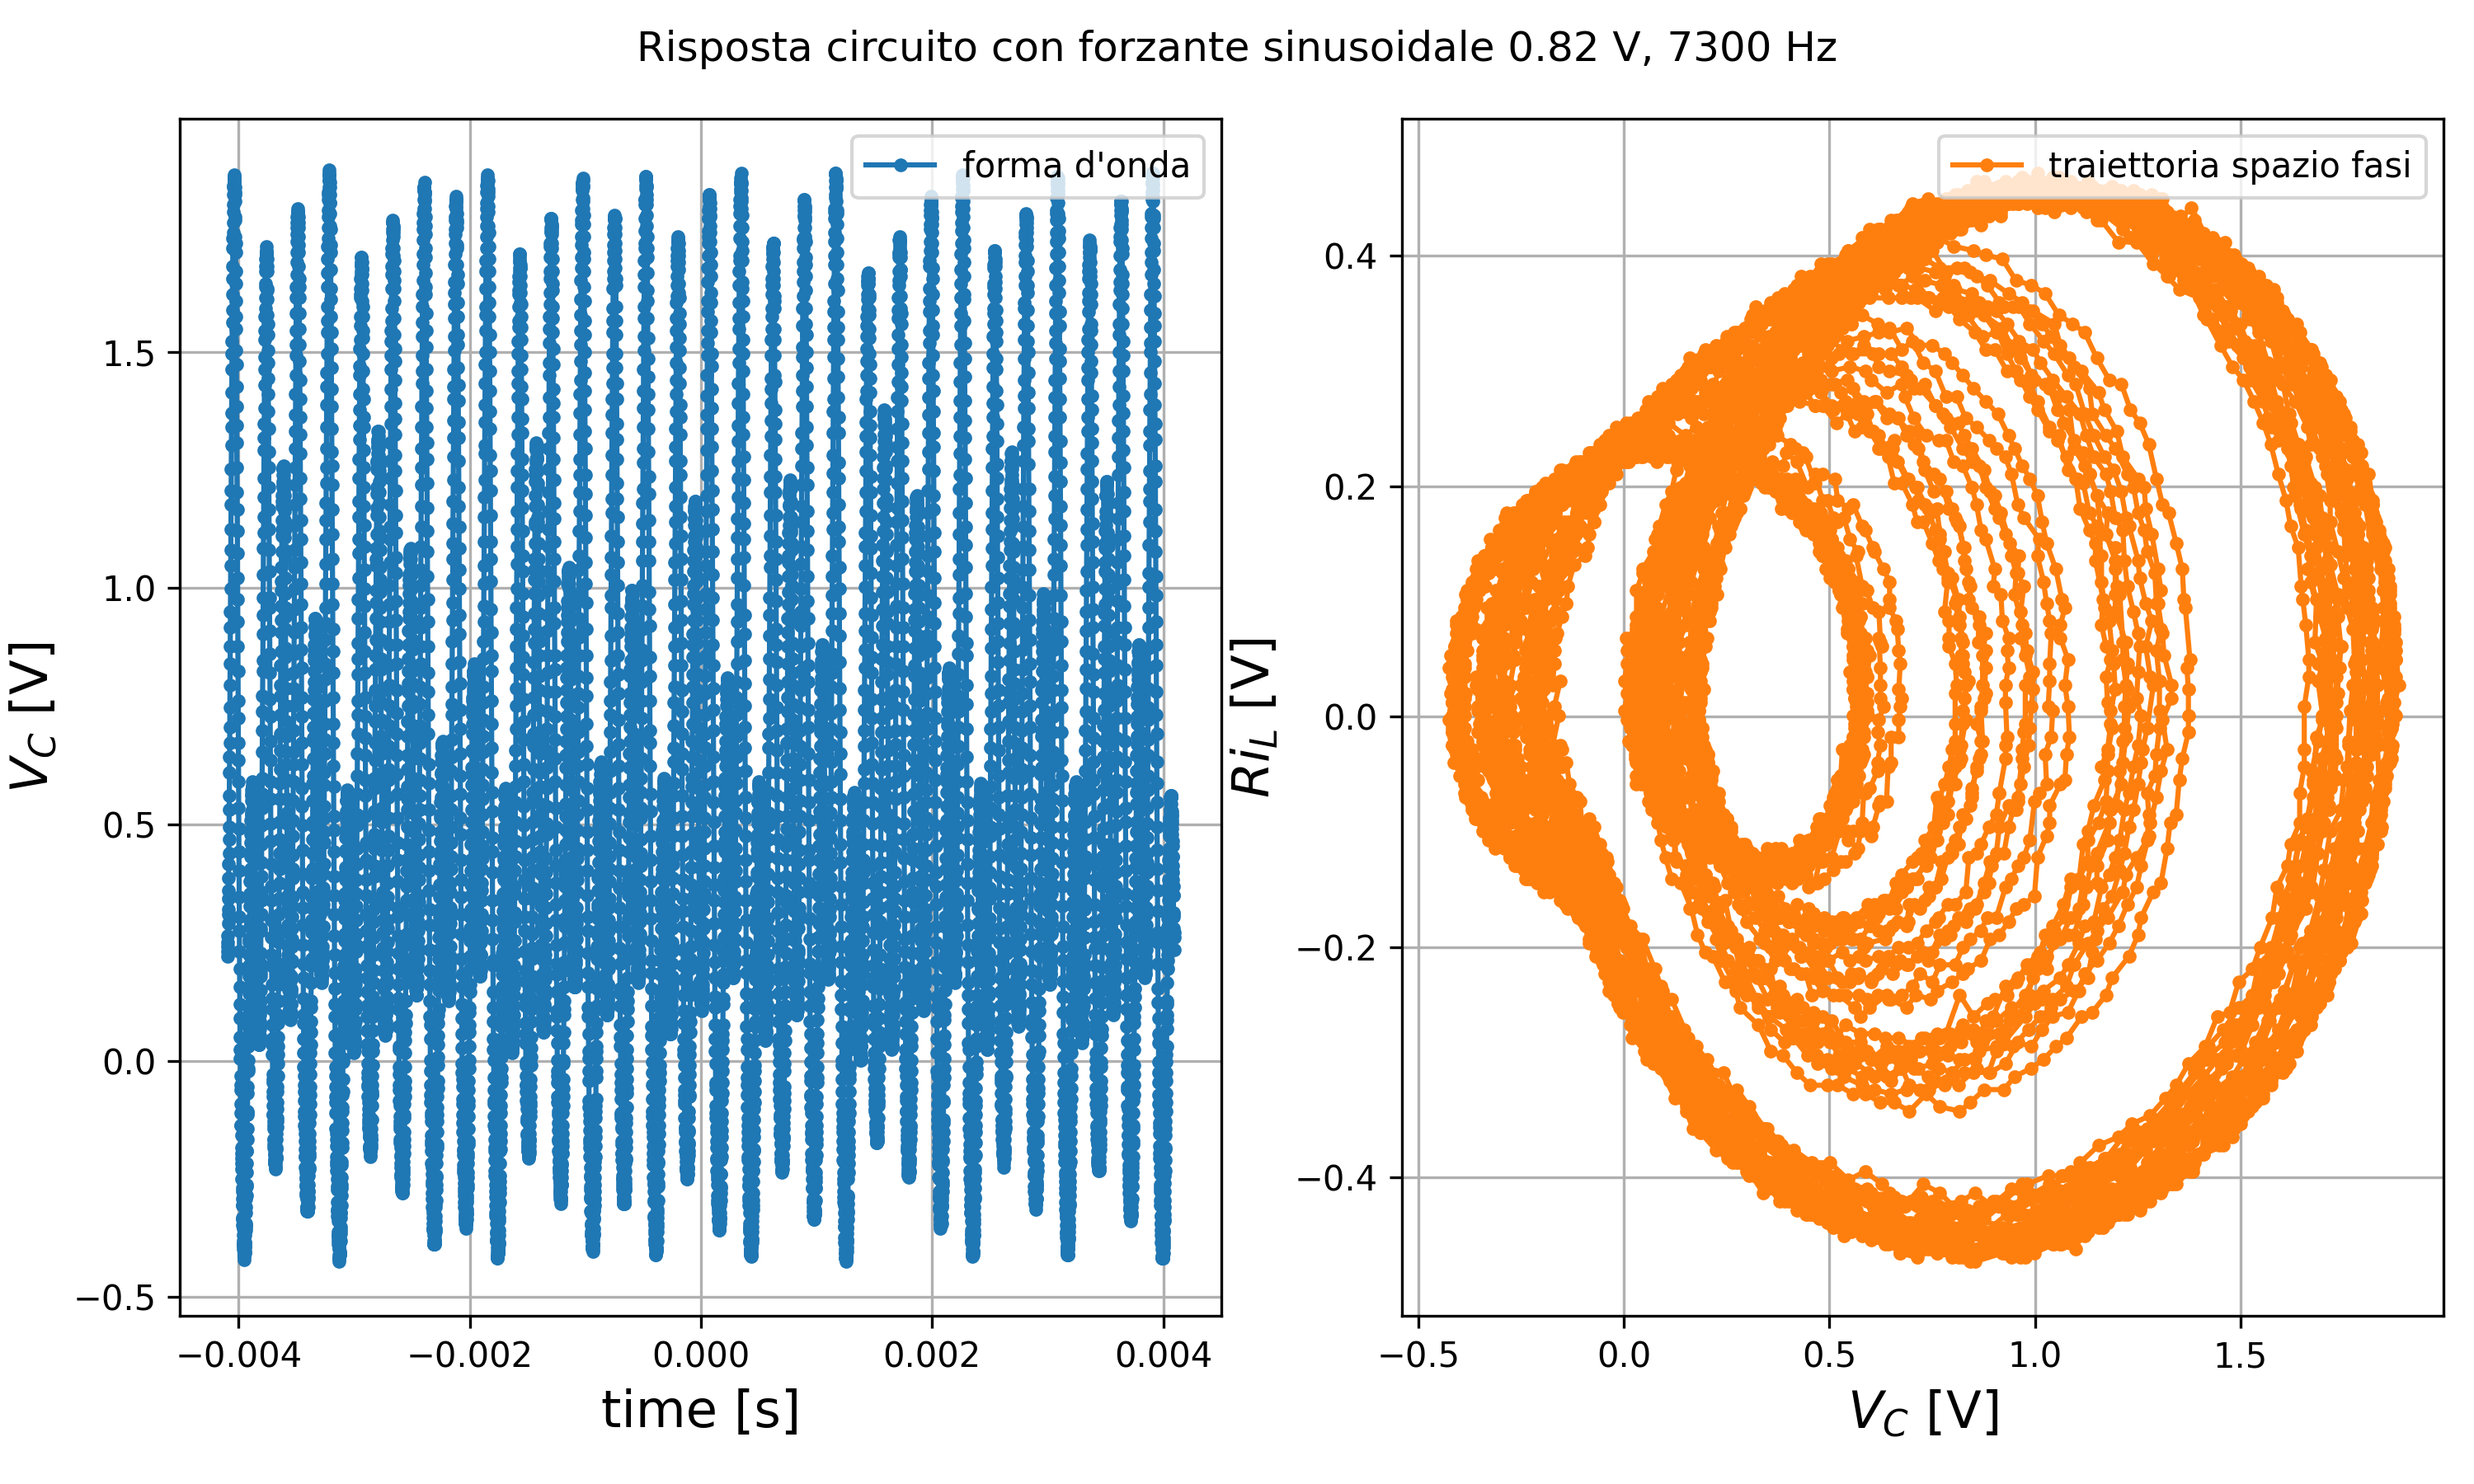
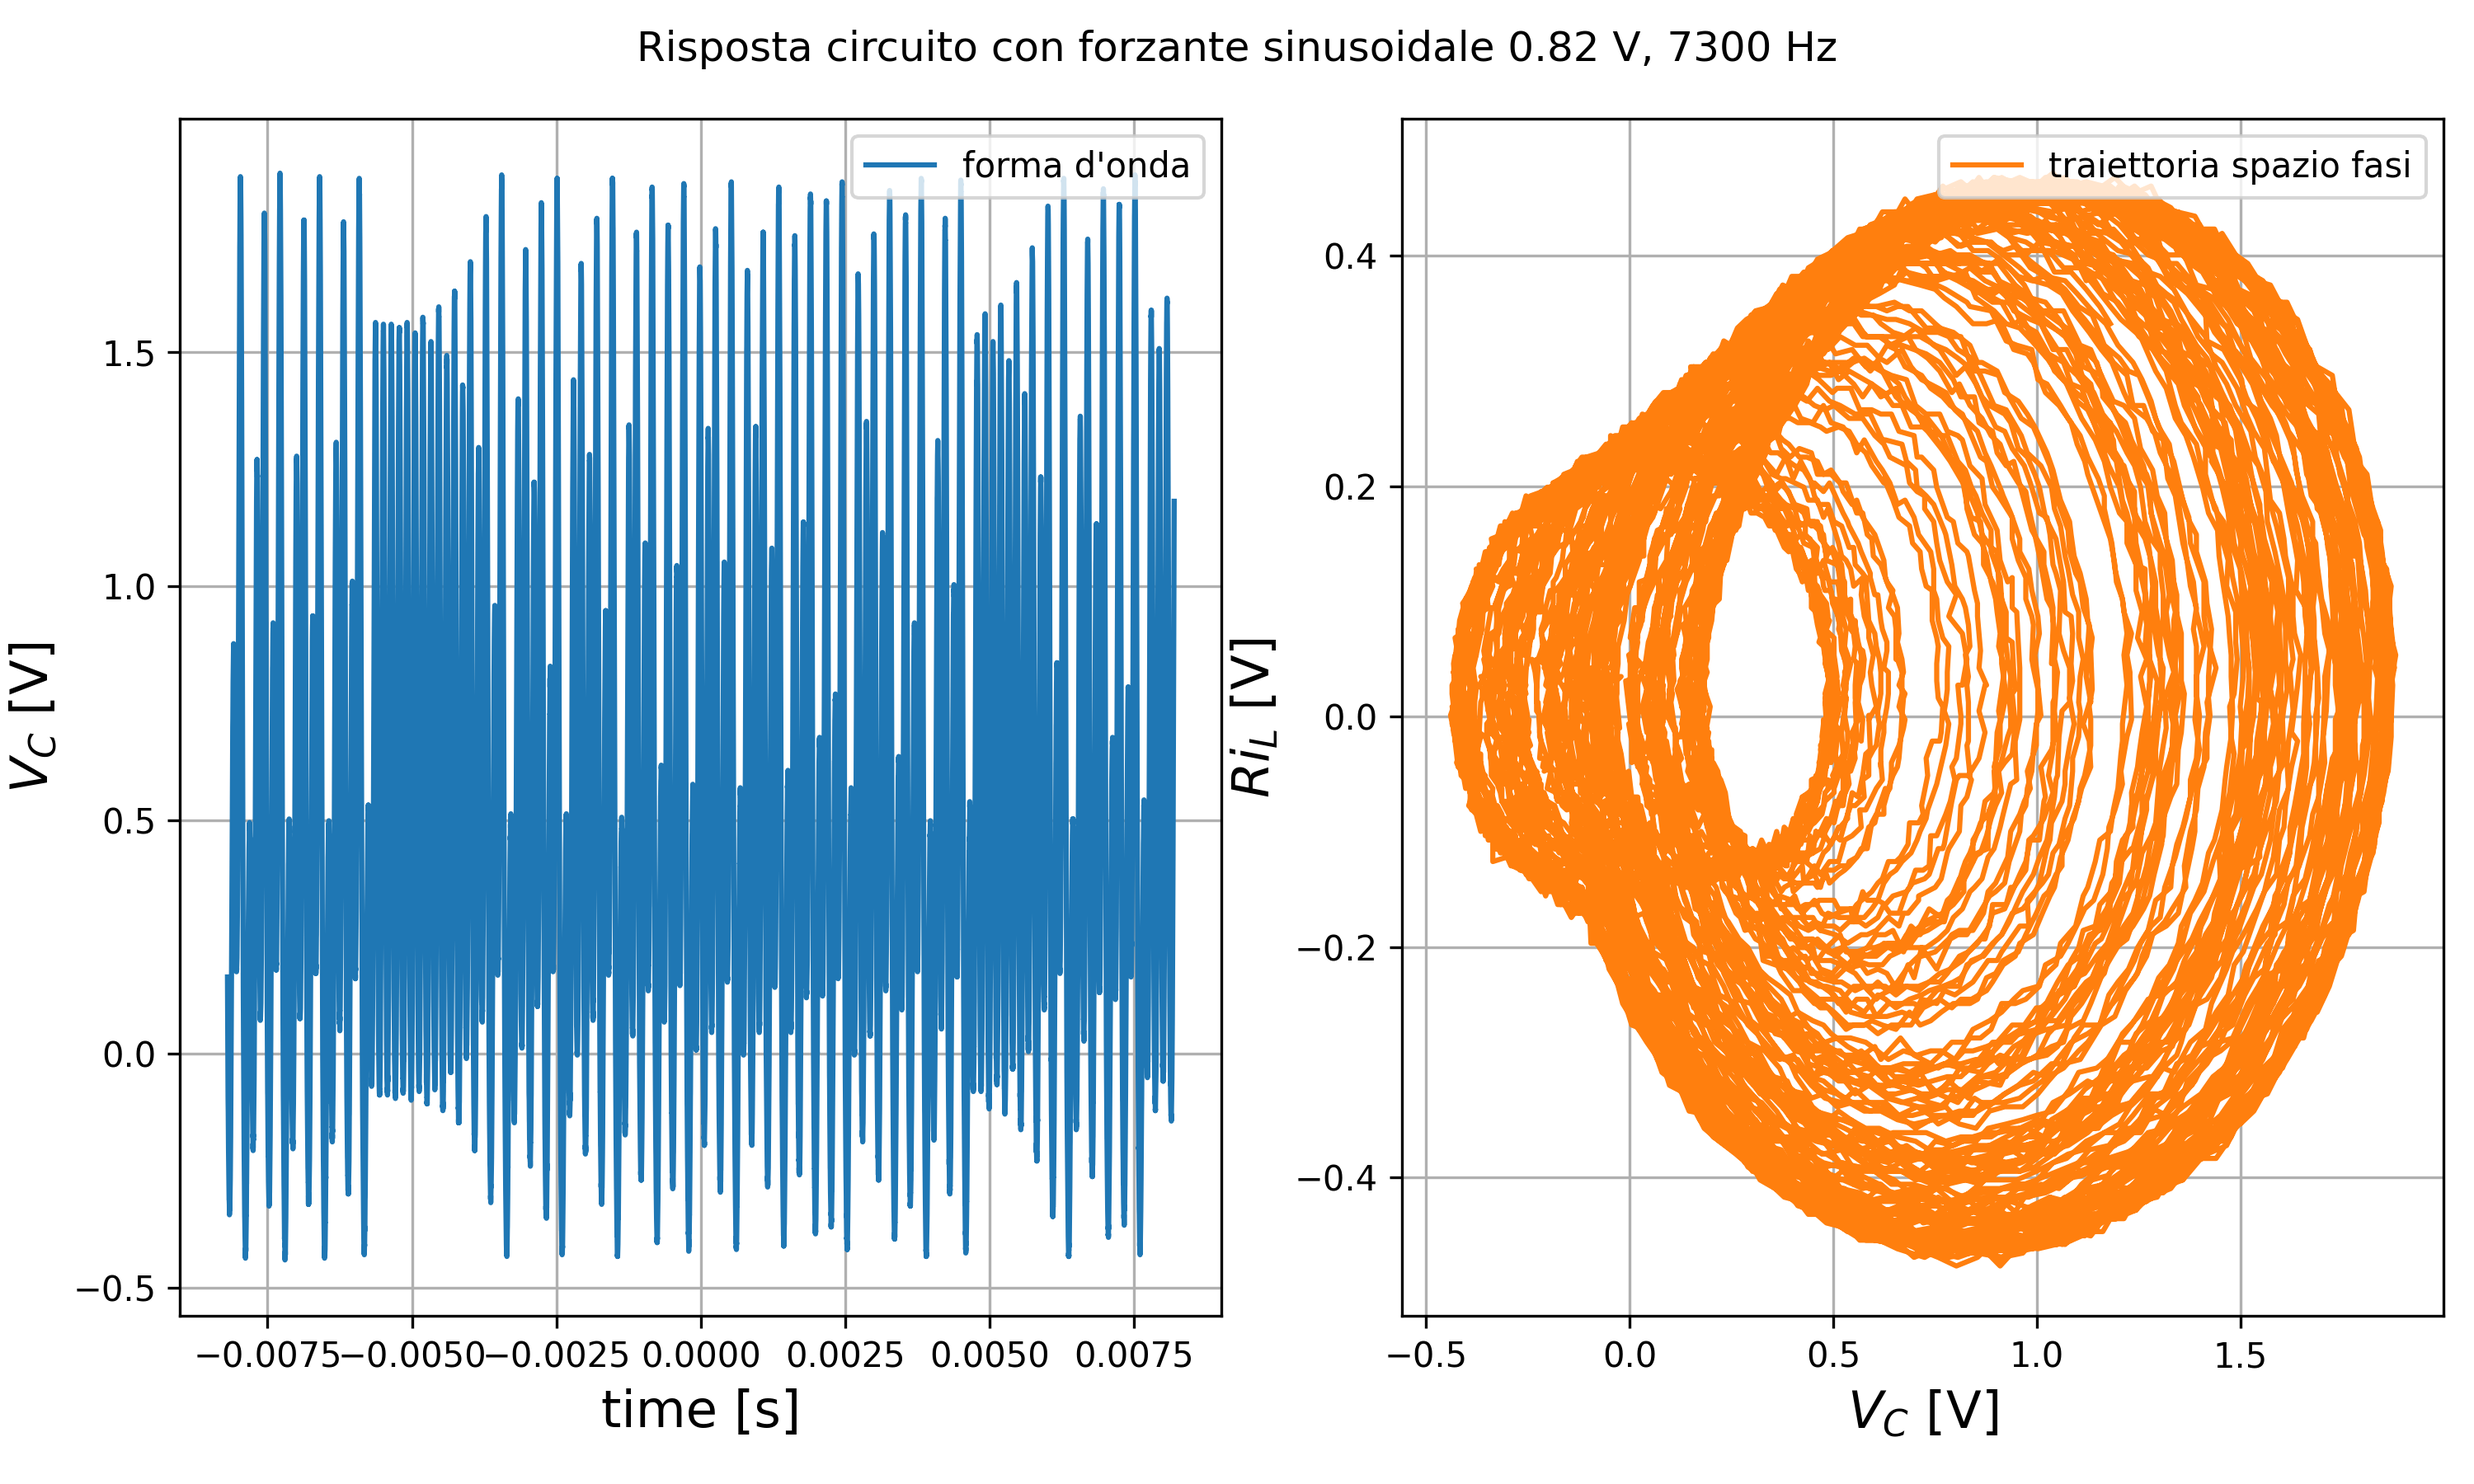
task5 ultimato

diff --git a/Es_11/task5_esplorazione_regimi_caotici.py b/Es_11/task5_esplorazione_regimi_caotici.py
@@ -23,8 +23,8 @@ ad2.vss = -5
 ad2.power(True)
 #   2. Configurazione generatore di funzioni
 wgen = tdwf.WaveGen(ad2.hdwf)
-wgen.w1.ampl = 0.8     #0.34, 0.35, 0.6 forma elegante che piace ad Alessia, la mettiamo nella presentazione così lei è felice yeeeiiiii
-wgen.w1.freq = 7340
+wgen.w1.ampl = 0.82     #0.34, 0.35, 0.6 forma elegante che piace ad Alessia, la mettiamo nella presentazione così lei è felice yeeeiiiii
+wgen.w1.freq = 7300
 wgen.w1.offs = 0.0
 wgen.w1.func = tdwf.funcSine
 wgen.w1.duty = 50
@@ -43,7 +43,7 @@ wgen.w1.start()
 #   3. Configurazione oscilloscopio
 scope = tdwf.Scope(ad2.hdwf)
 scope.fs=1e6
-scope.npt=1024
+scope.npt=16384
 scope.ch1.rng = 50
 scope.ch2.rng = 50
 scope.ch1.avg=True
